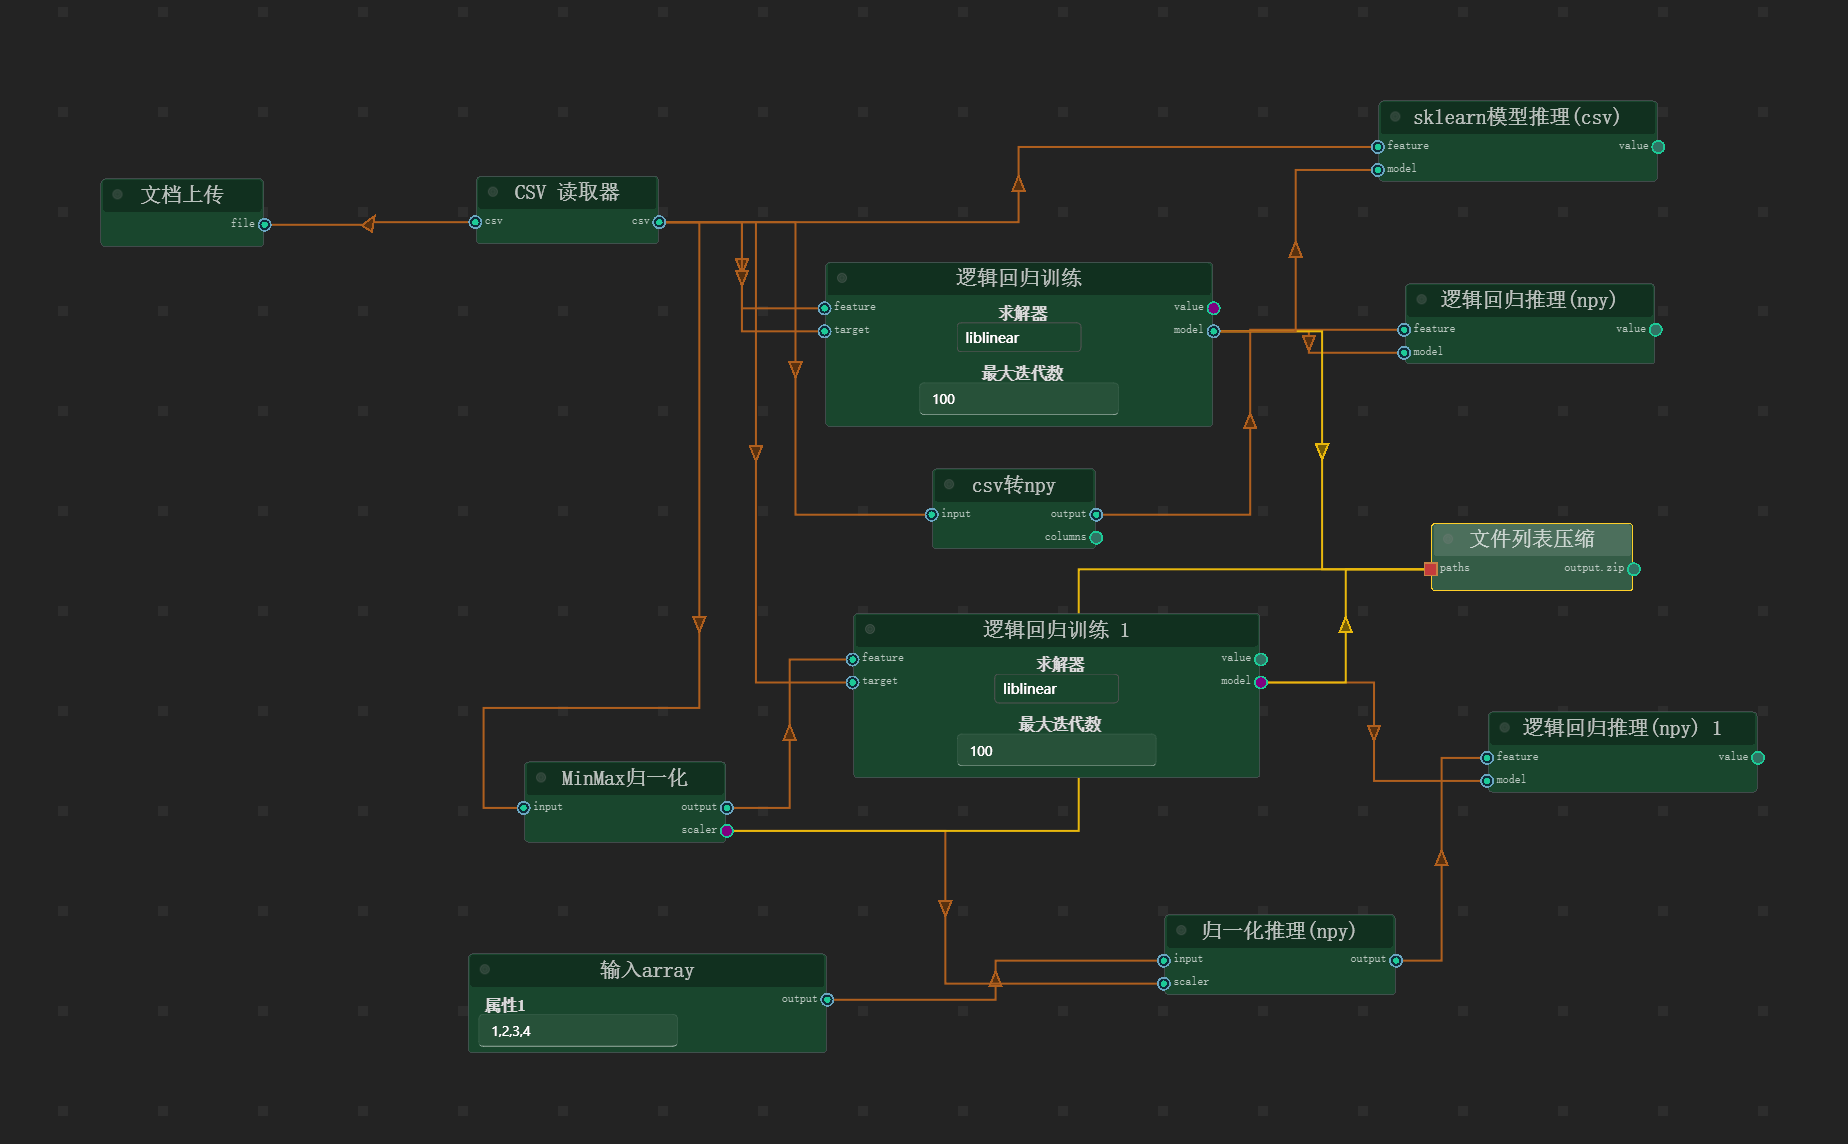
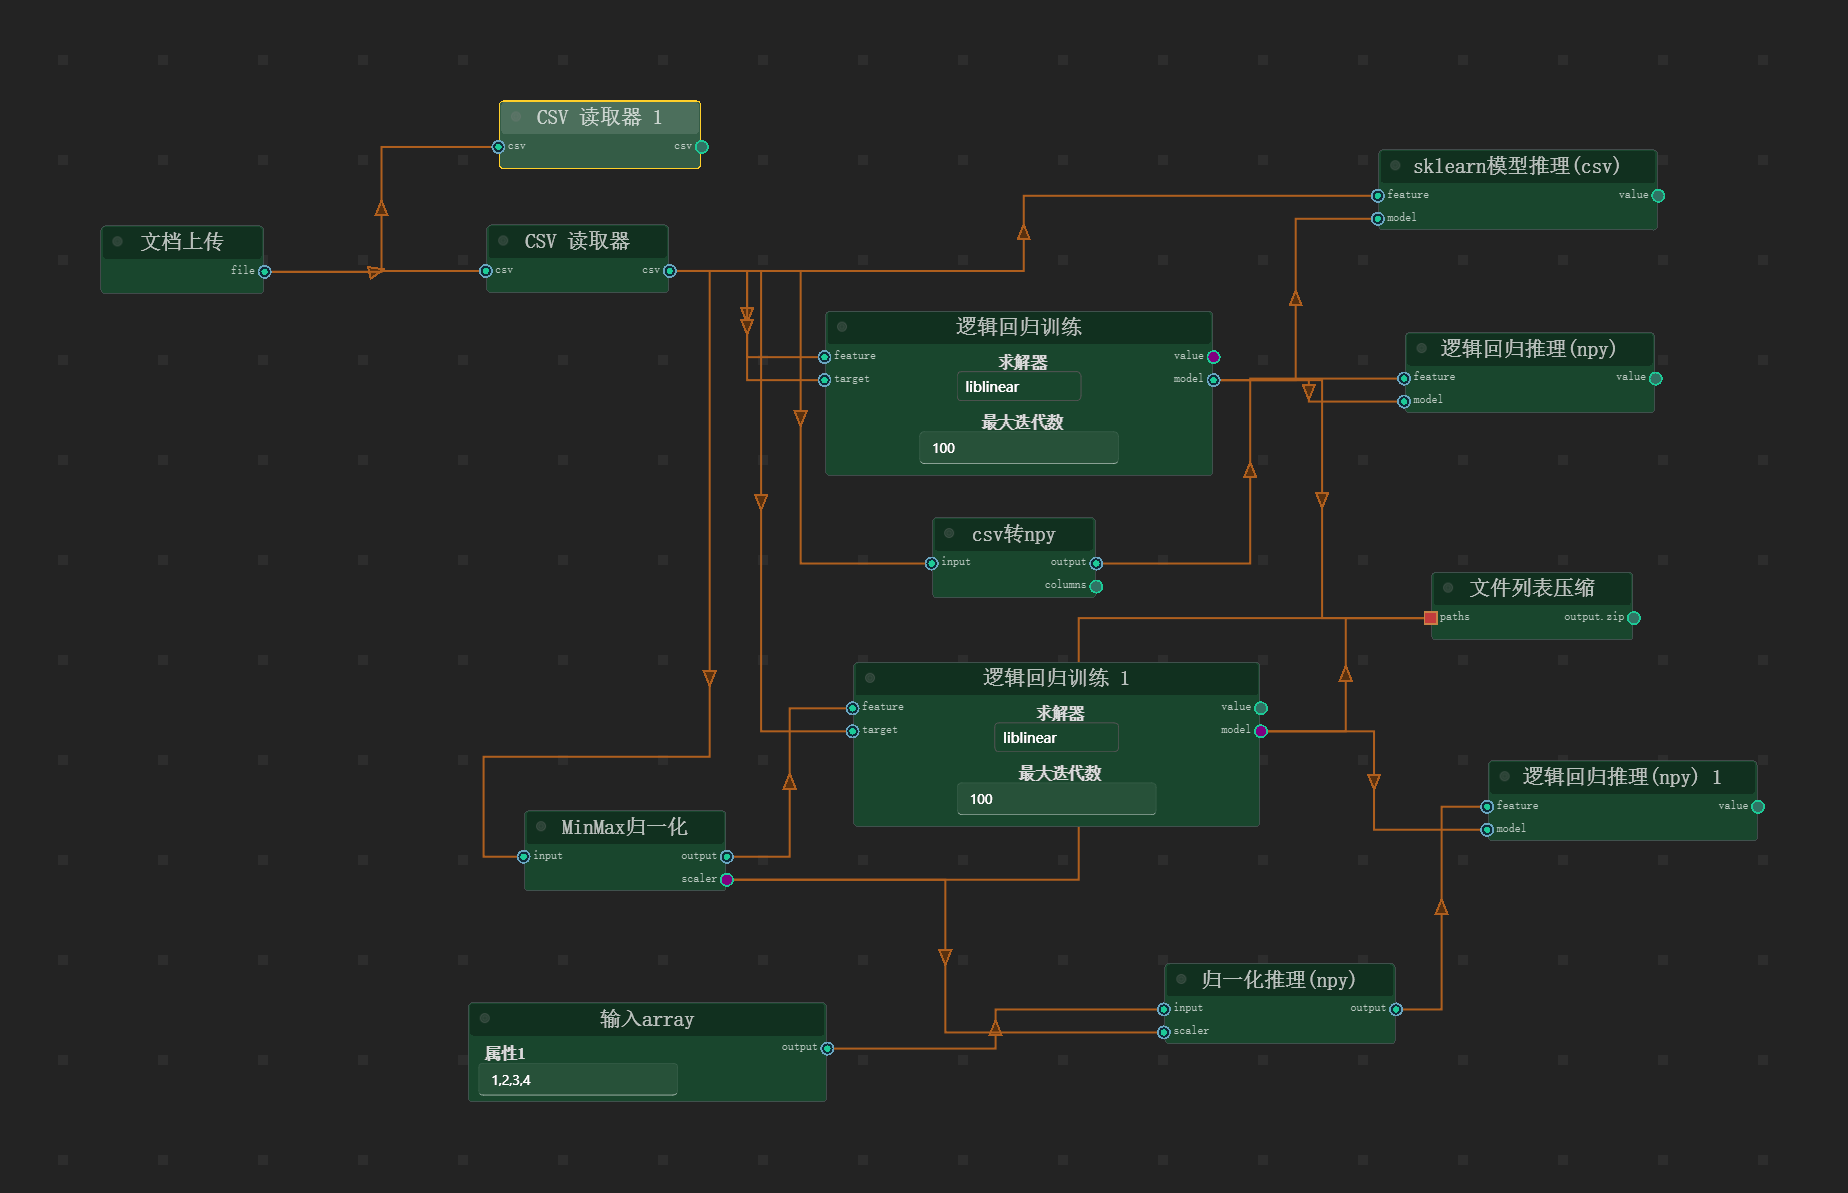
feat(data-integration): 更新CSV读取器组件以支持上传类型
- 将CSV读取器的参数类型从FILE更改为UPLOAD
- 移除了对_argument_type.FILE的特殊处理逻辑
- 删除了不再使用的json_serializer模块
- 更新了工作流中的节点ID和连接关系
- 修改了配置文件中的版本号并移除冗余配置项
- 调整了文件路径处理方式，去除resource_path包装
- 在工作流中新增了一个CSV读取器节点及其相关连接
- 更新了部分硬编码的文件路径为完整绝对路径
-优化了画布文件存储路径的获取方法

diff --git a/app/utils/config.py b/app/utils/config.py
@@ -61,7 +61,7 @@ class Settings(QConfig):
         if cls._instance:
             cls._instance.save()
     # 版本信息
-    current_version = ConfigItem("General", "CurrentVersion", "v0.1.6")
+    current_version = ConfigItem("General", "CurrentVersion", "v0.1.7")
 
     # 通用设置
     auto_check_update = ConfigItem("General", "AutoCheckUpdate", True, BoolValidator())
@@ -72,13 +72,6 @@ class Settings(QConfig):
     # GitHub 配置
     github_repo = ConfigItem("Patch", "GitHub/Repo", "martin98-afk/CanvasMind")
     github_token = ConfigItem("Patch", "GitHub/Token", "")
-
-    # Gitee 配置
-    gitee_repo = ConfigItem("Patch", "Gitee/Repo", "yourname/yourrepo")
-    gitee_token = ConfigItem("Patch", "Gitee/Token", "")
-
-    # GitCode 配置（如有）
-    gitcode_repo = ConfigItem("Patch", "GitCode/Repo", "yourname/yourrepo")
 
     # ========== 新增：画布路径 ==========
     workflow_paths = ConfigItem(

diff --git a/app/components/base.py b/app/components/base.py
@@ -126,7 +126,7 @@ def resource_path(relative_path) -> str:
 
 
 def canvas_file_dump_path(dump_location: str = "canvas_files") -> Path:
-    dump_path = Path(resource_path(dump_location))
+    dump_path = Path(dump_location)
     dump_path.mkdir(parents=True, exist_ok=True)
     return dump_path
 
@@ -659,7 +659,7 @@ class BaseComponent(ABC):
             elif input_type == ArgumentType.IMAGE:
                 return self._read_image_data(input_value)
             elif input_type == ArgumentType.FILE:
-                return self._read_file_data(input_value)
+                return input_value
             else:
                 return input_value
         except Exception as e:

diff --git a/app/components/数据集成/26f404b9-0029-4f8b-8abc-0740ecad423b.py b/app/components/数据集成/26f404b9-0029-4f8b-8abc-0740ecad423b.py
@@ -21,7 +21,7 @@ class Component(BaseComponent):
     description = "接收本地上传csv文件"
     requirements = "pandas"
     inputs = [
-        PortDefinition(name="csv", label="csv文件", type=ArgumentType.FILE, connection=ConnectionType.SINGLE),
+        PortDefinition(name="csv", label="csv文件", type=ArgumentType.UPLOAD, connection=ConnectionType.SINGLE),
     ]
     outputs = [
         PortDefinition(name="csv", label="csv文件", type=ArgumentType.CSV),

diff --git a/app/utils/utils.py b/app/utils/utils.py
@@ -107,7 +107,7 @@ def resource_path(relative_path) -> str:
 
 
 def canvas_file_dump_path(dump_location: str = "canvas_files") -> Path:
-    dump_path = Path(resource_path(dump_location))
+    dump_path = Path(dump_location)
     dump_path.mkdir(parents=True, exist_ok=True)
     return dump_path
 
